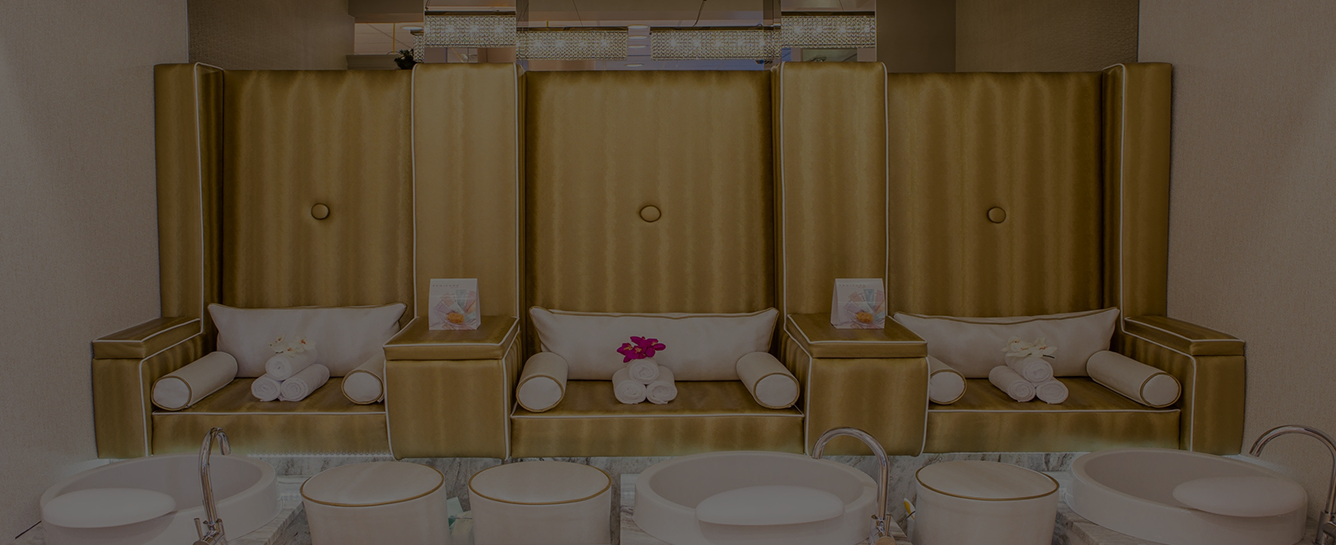
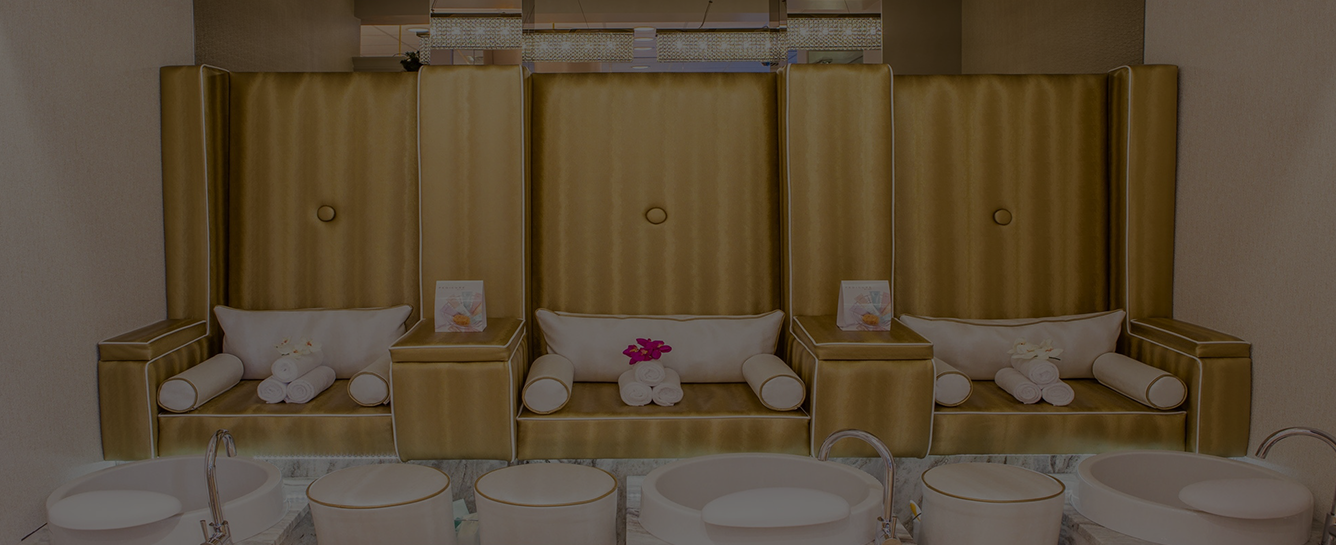
fixed nav mobile

diff --git a/css/main.css b/css/main.css
@@ -150,12 +150,13 @@ a {
     border-radius: 10px;
     justify-content: center;
 }
-
+.btn.book:hover {
+    color: #ece4e1;
+}
 img {
     width: 100%;
     height: auto;
 }
-
 /*End global styles*/
 
 /*===HEADER===*/
@@ -170,11 +171,11 @@ header {
 }
 nav {
     display: none;  /*dont show menu*/
-    position: fixed;
+    position: absolute;
     top:0;
     left:0;
     width:100%;
-    height:100%;
+    height:520px;
     background:#bb2f5c;
     text-align: center;
     color: #000;
@@ -192,6 +193,12 @@ nav a {
     font-size: 3.6em;
     line-height: 70px;
     padding:5px 10px;
+}
+nav a:hover {
+    color: #000;
+}
+.btn a:hover {
+    color: red;
 }
 nav li {
     list-style-type: none; 
@@ -519,6 +526,7 @@ i {
     top: 0;
     left: 0;
     background-color: rgba(0,0,0,.6);
+    z-index: 22;
 }
 .modal.open {
     display: block;

diff --git a/css/flexslider.css b/css/flexslider.css
@@ -50,9 +50,9 @@
   -webkit-backface-visibility: hidden;
 }
 .flexslider .hero_1{
-    background-image: url('../img/hero.png');
+    background-image:  url('../img/hero.png');
     height: 400px;
-    background-position: 48% 33%;
+    background-position: 49% 12%;
 }
 .flexslider .hero_2{
     background-image: url('../img/hero2.png');
@@ -64,12 +64,6 @@
     height: 400px;
     background-position: 10% 50%;
 }
-/*.flexslider .slides img {
-  width: auto;
-  display: block;
-  height: 500px;
-  background-position: center;
-}*/
 .flexslider .slides:after {
   content: "\0020";
   display: block;
